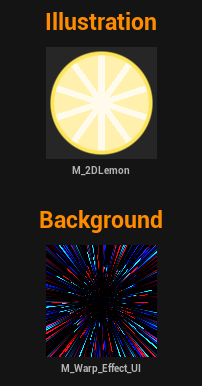
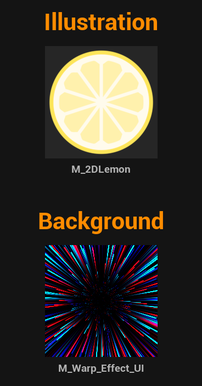
Show the fixed lemon in the README
Reshoot docs/images/Showcase_UI_Graphic.png with
Tools/BuildShowcaseUI_Graphic.py (SHOWCASE_SCREENSHOT=1) so it shows
M_2DLemon with the pith ring, rounded segment tips and thin membranes,
cropped and scaled to the same 202x386 frame as before. Both READMEs
now say what M_2DLemon and M_Warp_Effect_UI draw, and that Rflesh and
MemThciness set where the segments end and the membrane width.

Changed region(s): [[0.1782, 0.5285, 0.8317, 0.9948], [0.2376, 0.1244, 0.7723, 0.4663], [0.2079, 0.0311, 0.7723, 0.0933]]

diff --git a/README.ja.md b/README.ja.md
@@ -100,7 +100,7 @@
 
 ### Showcase_UI_Graphic
 
-Play(PIE)を押すとウィジェット(`Content/Widgets/WBP_Showcase_UI_Graphic`)が表示されます。
+`M_2DLemon` は動かないレモンの輪切りで、皮、白いわたの輪、薄い膜で仕切られた先の丸い房、中心の芯を描きます。房の外径は `Rflesh`、膜の幅は `MemThciness` で変えられます。`M_Warp_Effect_UI` は `M_Warp_Effect` の UI 版で、時間でループします。Play(PIE)を押すとウィジェット(`Content/Widgets/WBP_Showcase_UI_Graphic`)が表示されます。
 
 ![Showcase_UI_Graphic](docs/images/Showcase_UI_Graphic.png)
 

diff --git a/README.md b/README.md
@@ -100,7 +100,7 @@ The radar chart is made of two layers: `M_Rader_Chart_BG` draws the scale and `M
 
 ### Showcase_UI_Graphic
 
-Press Play (PIE) to see the widget (`Content/Widgets/WBP_Showcase_UI_Graphic`).
+`M_2DLemon` draws a still lemon slice: the rind, a white pith ring, segments with rounded tips split by thin membranes, and the core. `Rflesh` sets where the segments end and `MemThciness` sets the membrane width. `M_Warp_Effect_UI` is the UI version of `M_Warp_Effect` and loops over time. Press Play (PIE) to see the widget (`Content/Widgets/WBP_Showcase_UI_Graphic`).
 
 ![Showcase_UI_Graphic](docs/images/Showcase_UI_Graphic.png)
 
